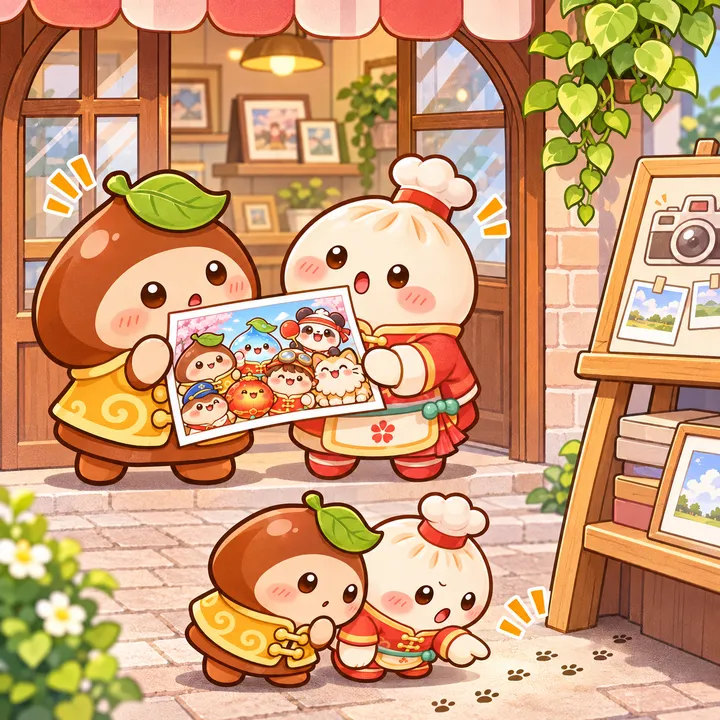
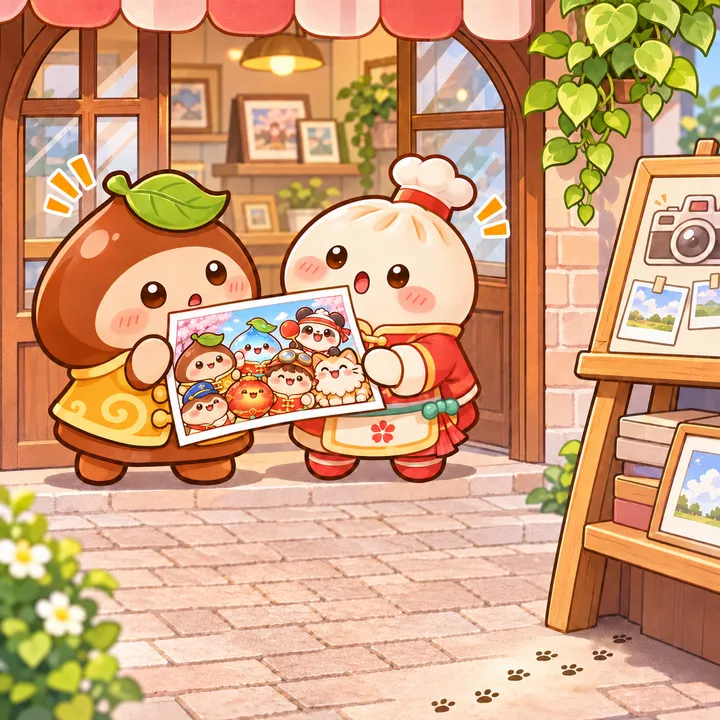
dev/scene/photo: 단계별 문제 8~10개로 확장
추가 미션(찾기, 가려진 물건, 전달, 풍선, 가방 도구)과 제한 시간 조정, 수정 이야기 그림 3장 교체.

Claude-Session: https://claude.ai/code/session_01BVqfE27zkq2vmX5fkttt4p

diff --git a/dev/scene/photo/src/engine.html b/dev/scene/photo/src/engine.html
@@ -15,8 +15,8 @@ body{color:var(--ink);font-family:var(--body);background-color:var(--paper);back
 #back{font-size:24px;line-height:38px}
 #ribbon{min-width:0;background:linear-gradient(#e2574a,#c93c30);color:#fff;border-radius:13px;padding:5px 12px 6px;box-shadow:0 3px 0 var(--redd),inset 0 1px 0 rgba(255,255,255,.28);display:grid;grid-template-columns:1fr auto;gap:0 8px;align-items:center}
 #goal{font:400 18px/1.15 var(--zh);min-width:0;overflow:hidden;white-space:nowrap;text-overflow:ellipsis}
-#pips{display:flex;gap:4px;grid-row:1/3;grid-column:2}
-#pips i{width:11px;height:14px;border-radius:50%/44%;background:rgba(255,255,255,.26);box-shadow:inset 0 0 0 1px rgba(255,255,255,.35);transition:background .25s,transform .25s}
+#pips{display:flex;gap:2px;grid-row:1/3;grid-column:2}
+#pips i{width:8px;height:12px;border-radius:50%/44%;background:rgba(255,255,255,.26);box-shadow:inset 0 0 0 1px rgba(255,255,255,.35);transition:background .25s,transform .25s}
 #pips i.on{background:#ffd76a;box-shadow:0 0 6px #ffd76a;transform:scale(1.12)}
 #timer{font:400 13px/1.2 var(--zh);font-variant-numeric:tabular-nums;opacity:.95}
 #timer.low{color:#ffe29a}
@@ -191,15 +191,16 @@ const cond=(c,v)=>!c||c.split('|').some(a=>a.split('&').every(t=>t[0]==='!'?!v[t
 let S=null;let L=null;
 const obj=id=>L.objs.find(o=>o.id===id);
 function view(o,v,tmp){let r={img:o.img,x:o.x,y:o.y,w:o.w,h:o.h,rot:o.rot||0,hide:false};if(o.show&&!cond(o.show,v))r.hide=true;for(const a of o.alt||[])if(cond(a.if,v)){for(const k of ['img','x','y','w','h','rot'])if(a[k]!==undefined)r[k]=a[k];if(a.hide)r.hide=true;}const t=tmp&&tmp[o.id];if(t){Object.assign(r,t);if(t.hide===undefined&&t.show)r.hide=false;}return r;}
-const probsDone=v=>L.probs.filter(p=>v[p.id]).length;
-function blank(st){const v={};for(const p of st.probs)v[p.id]=false;return v;}
+const allP=st=>st.probs.concat(st.extra||[]);const probsDone=v=>allP(L).filter(p=>v[p.id]).length;
+function blank(st){const v={};for(const p of allP(st))v[p.id]=false;return v;}
+function vFrom(st,l){const v=blank(st);st.probs.forEach((p,i)=>{v[p.id]=l.mask[i]==='0';});(st.extra||[]).forEach((p,i)=>{v[p.id]=(l.x||'')[i]==='1';});return v;}
 function start(i){$('intro').hidden=true;if(STAGES[i].wall)buildWall();L=STAGES[i];S={i,v:blank(L),found:false,phase:'playing',t:L.time||120,tmp:{},fx:{},rub:{},rot:{},q:[],qw:0,qBusy:false,parts:[],fly:[],bubble:null,drag:null,g:null,flash:0,mood:'worry',idle:0,hint:0,hintR:null,zone:null,comp:false,hints:L.diff.hints,used:{},paused:false,timeAd:false,hintAd:false,adRound:false};if(AD.missStage!==L.id){AD.miss=0;AD.missStage=L.id;AD.next={time:0,detail:0,free:0};}S.t+=AD.next.time;S.hints+=AD.next.free;S.detailReady=AD.next.detail;AD.next={time:0,detail:0,free:0};AD.played++;
  music('play');$('home').hidden=true;$('play').hidden=false;$('result').hidden=true;$('goal').textContent=L.goal;$('comp').hidden=!L.comp;$('comp').textContent='全景';fit();updHud();updItems();refreshPV();S.cardT=1.5;$('cardN').textContent=`第 ${L.id} 关`;$('cardT').textContent=L.title;$('cardK').textContent=L.ko;const cd=$('card');cd.hidden=true;void cd.offsetWidth;cd.hidden=false;const ci=$('cardIn');ci.style.animation='none';void ci.offsetWidth;ci.style.animation='';S.q.push(['wait',1.4]);enqueue(L.open||[]);}
 function goHome(){music('menu');S=null;L=null;$('play').hidden=true;$('result').hidden=true;$('home').hidden=false;renderHome();}
 function enqueue(ops){S.q.push(...ops);}
 const at=p=>{if(Array.isArray(p))return{x:p[0],y:p[1]};if(p==='tray')return{x:.5,y:1.08};if(p==='lili')return{x:L.lili[0],y:L.lili[1]-L.lili[2]*.5};const o=obj(p);const w=view(o,S.v,S.tmp);return{x:w.x,y:w.y};};
 function runOp(d){const k=d[0];
- if(k==='set'){const was=S.v[d[1]];S.v[d[1]]=true;if(!was){if(L.probs.some(p=>p.id===d[1])){tone('good');const q=L.probs.find(p=>p.id===d[1]);celebrate(q.at||d[1]);S.mood=probsDone(S.v)>=2?'joy':'basic';}updHud();refreshPV();}}
+ if(k==='set'){const was=S.v[d[1]];S.v[d[1]]=true;if(!was){if(allP(L).some(p=>p.id===d[1])){tone('good');const q=allP(L).find(p=>p.id===d[1]);celebrate(q.at||d[1]);S.mood=probsDone(S.v)>=2?'joy':'basic';}updHud();refreshPV();}}
  else if(k==='clr'){S.v[d[1]]=false;updHud();refreshPV();}
  else if(k==='found'){S.found=true;tone('good');refreshPV();}
  else if(k==='say'){const p=at(d[2]||'lili');S.bubble={t:d[1],x:p.x*SS,y:(p.y-.13)*SS,life:d[3]||1.9};}
@@ -240,12 +241,12 @@ function scene(c,ox,oy,s,st,v,tmp,fxs,rots,mood,found,photo){const now=performan
  for(const o of list){if(!drawnLili&&(o.z||0)>2)lili();if(o.hot)continue;const w=view(o,v,tmp);if(w.hide||!w.img)continue;const f=!photo&&fxs[o.id]>0?Math.sin(now*34)*.09*Math.min(1,fxs[o.id]*2):0;let dy=0,r=w.rot+f+(rots&&rots[o.id]||0);if(!photo&&o.anim==='bob'&&!w.still)dy=Math.sin(now*3+o.x*9)*.012;if(!photo&&o.anim==='shake'&&!cond(o.calm,v))r+=Math.sin(now*26)*.12;if(w.y>.48&&!w.h&&ART[w.img]){const ih=w.w*ART[w.img].height/ART[w.img].width;c.fillStyle='rgba(90,50,20,.16)';c.beginPath();c.ellipse(ox+w.x*s,oy+(w.y+ih*.47)*s,w.w*s*.42,ih*s*.08,0,0,7);c.fill();}sprite(c,w.img,ox+w.x*s,oy+(w.y+dy)*s,w.w*s,{r,h:w.h?w.h*s:0});}
  if(st.wall)for(let i=0;i<5;i++){const x=ox+(.25+i*.125)*s,y=oy+.27*s,w=.105*s;c.fillStyle='#fff8ec';c.strokeStyle='#8a5a37';c.lineWidth=s/260;c.fillRect(x-w/2,y-w/2,w,w*1.1);c.strokeRect(x-w/2,y-w/2,w,w*1.1);const t=WALL[i];if(t)c.drawImage(t,x-w*.44,y-w*.44,w*.88,w*.88);else{c.fillStyle='#ead7b6';c.fillRect(x-w*.44,y-w*.44,w*.88,w*.88);}}
  if(!drawnLili)lili();
- if(st.dark){const a=st.dark.a*(st.dark.off&&cond(st.dark.off,v)?0:1)*(st.dark.fade?1-probsDoneOf(st,v)/5*.85:1);if(a>.01){c.fillStyle=`rgba(12,14,48,${a})`;c.fillRect(ox,oy,s,s);}}
+ if(st.dark){const a=st.dark.a*(st.dark.off&&cond(st.dark.off,v)?0:1)*(st.dark.fade?1-probsDoneOf(st,v)/allP(st).length*.85:1);if(a>.01){c.fillStyle=`rgba(12,14,48,${a})`;c.fillRect(ox,oy,s,s);}}
  if(st.rain){c.strokeStyle='rgba(190,220,255,.55)';c.lineWidth=s/300;for(let i=0;i<46;i++){const x=(i*37.3%100)/100,y=((i*61.7+(photo?0:now*90))%100)/100;c.beginPath();c.moveTo(ox+x*s,oy+y*s);c.lineTo(ox+(x-.012)*s,oy+(y+.05)*s);c.stroke();}}
  if(photo&&found&&st.hid)sprite(c,st.hid,ox+.92*s,oy+.09*s,.09*s,{r:.12});
  if(photo&&st.fog&&!cond(st.fog,v)){const gr=c.createRadialGradient(ox+s/2,oy+s/2,s*.34,ox+s/2,oy+s/2,s*.72);gr.addColorStop(0,'rgba(240,244,248,0)');gr.addColorStop(1,'rgba(240,244,248,.82)');c.fillStyle=gr;c.fillRect(ox,oy,s,s);}}
-let WALL=[];function buildWall(){WALL=[];const pool=Object.assign({},SAVE.last,SAVE.bestShot||{});const ids=Object.keys(pool).map(Number).filter(i=>i!==20).sort((a,b)=>b-a).slice(0,5);for(const id of ids){const st=STAGES.find(q=>q.id===id),l=pool[id];if(!st)continue;const c=document.createElement('canvas');c.width=c.height=170;const v=blank(st);st.probs.forEach((p,i)=>{v[p.id]=l.mask[i]==='0';});photoInto(c.getContext('2d'),170,st,v,l.found,l.zoom);WALL.push(c);}}
-function probsDoneOf(st,v){return st.probs.filter(p=>v[p.id]).length;}
+let WALL=[];function buildWall(){WALL=[];const pool=Object.assign({},SAVE.last,SAVE.bestShot||{});const ids=Object.keys(pool).map(Number).filter(i=>i!==20).sort((a,b)=>b-a).slice(0,5);for(const id of ids){const st=STAGES.find(q=>q.id===id),l=pool[id];if(!st)continue;const c=document.createElement('canvas');c.width=c.height=170;const v=vFrom(st,l);photoInto(c.getContext('2d'),170,st,v,l.found,l.zoom);WALL.push(c);}}
+function probsDoneOf(st,v){return allP(st).filter(p=>v[p.id]).length;}
 function bubble(b){const zh=b.t[0],ko=b.t[1],a=Math.min(1,b.life*3);g.save();g.globalAlpha=a;g.textAlign='center';const F='18px "ZCOOL KuaiLe","PingFang SC",sans-serif';g.font=F;const w1=g.measureText(zh).width;g.font='11px sans-serif';const w=Math.min(VW-8,Math.max(w1,g.measureText(ko).width)+26);const x=Math.max(w/2+4,Math.min(VW-w/2-4,b.x)),y=Math.max(30,Math.min(SS-30,b.y));
  g.fillStyle='#fffdf7';g.strokeStyle='#5b3520';g.lineWidth=2.5;const tx=Math.max(x-w/2+22,Math.min(x+w/2-22,b.x));g.beginPath();g.roundRect(x-w/2,y-26,w,50,16);g.fill();g.stroke();g.beginPath();g.moveTo(tx-9,y+23);g.lineTo(tx,y+35);g.lineTo(tx+9,y+23);g.closePath();g.fill();g.beginPath();g.moveTo(tx-9,y+24);g.lineTo(tx,y+35);g.lineTo(tx+9,y+24);g.stroke();g.textBaseline='middle';g.fillStyle='#5b3520';g.font=F;g.fillText(zh,x,y-7,w-10);g.font='11px sans-serif';g.fillStyle='#8a6448';g.fillText(ko,x,y+13,w-10);g.restore();}
 function draw(){g.setTransform(DPR,0,0,DPR,0,0);g.clearRect(0,0,VW,SS+TRAY);g.save();g.beginPath();g.roundRect(0,0,SS,SS,14);g.clip();
@@ -285,13 +286,13 @@ for(const ev of ['pointerup','pointercancel'])cv.addEventListener(ev,e=>{if(!S||
  const d=S.drag;if(!d)return;S.drag=null;const o=objAt(d.x/SS,d.y/SS,d.id);if(!o)return;const r=find('use',o.id,d.id);if(r){fire(r);return;}if(performance.now()-(S.rubbed||0)<400)return;if(!find('rub',o.id,d.id)){const t=L.tools.find(q=>q.id===d.id);S.fx[o.id]=.6;tone('nope');if(t.miss)S.bubble={t:t.miss,x:view(o,S.v,S.tmp).x*SS,y:(view(o,S.v,S.tmp).y-.13)*SS,life:1.5};}});
 /* ---------- hint: the next rule that changes something ---------- */
 function nextRule(){const shown=r=>{const o=obj(r.t);return !o||!o.show||cond(o.show,S.v);};return L.rules.filter(r=>cond(r.if,S.v)&&shown(r)&&(!r.tool||cond(L.tools.find(t=>t.id===r.tool).have,S.v))&&r.do.some(d=>d[0]==='set'&&!S.v[d[1]]));}
-function useHint(){if(S.detailReady){S.detailReady=0;detailHint();return;}if(S.hints<=0){if(S.hintAd){tone('nope');return;}ask('看广告，获得详细提示','광고를 보면 다음에 할 일을 자세히 알려 줍니다',async()=>{await requestRewarded('hint',()=>{S.hintAd=true;detailHint();});});return;}const rs=nextRule();const unsolved=rs.filter(r=>r.do.some(d=>d[0]==='set'&&L.probs.some(p=>p.id===d[1])));const r=unsolved[0]||rs[0];if(!r)return;S.hints--;updHud();const o=obj(r.t),w=view(o,S.v,S.tmp);S.fx[o.id]=1.4;if(L.diff.ring){S.hintR={x:w.x,y:w.y,r:o.r||Math.max(.07,(w.w||.1)*.6)};S.hint=2.8;S.hintTool=L.diff.toolRing?(r.tool||null):null;}}
+function useHint(){if(S.detailReady){S.detailReady=0;detailHint();return;}if(S.hints<=0){if(S.hintAd){tone('nope');return;}ask('看广告，获得详细提示','광고를 보면 다음에 할 일을 자세히 알려 줍니다',async()=>{await requestRewarded('hint',()=>{S.hintAd=true;detailHint();});});return;}const rs=nextRule();const unsolved=rs.filter(r=>r.do.some(d=>d[0]==='set'&&allP(L).some(p=>p.id===d[1])));const r=unsolved[0]||rs[0];if(!r)return;S.hints--;updHud();const o=obj(r.t),w=view(o,S.v,S.tmp);S.fx[o.id]=1.4;if(L.diff.ring){S.hintR={x:w.x,y:w.y,r:o.r||Math.max(.07,(w.w||.1)*.6)};S.hint=2.8;S.hintTool=L.diff.toolRing?(r.tool||null):null;}}
 function idleNudge(){const rs=nextRule();if(!rs.length)return;const r=rs[Math.floor(Math.random()*rs.length)];S.fx[r.t]=.8;}
 /* ---------- photo ---------- */
 const pvC=document.createElement('canvas');pvC.width=pvC.height=480;
-function decorate(c,sz,st,v){const n=probsDoneOf(st,v);if(n>=3){const y=sz*.012,w=sz/9;for(let i=0;i<9;i++){c.fillStyle=['#e8524a','#f2b52c','#7fc9a2','#7cc0ee'][i%4];c.beginPath();c.moveTo(i*w+w*.08,y);c.lineTo((i+1)*w-w*.08,y);c.lineTo((i+.5)*w,y+sz*.075);c.closePath();c.fill();}c.strokeStyle='#fff8ec';c.lineWidth=sz/170;c.beginPath();c.moveTo(0,y);c.lineTo(sz,y);c.stroke();}
- if(n===5){const P=['#ffd94a','#ff8fa3','#9fd3ff','#8fd19e','#ffb13b'];for(let i=0;i<70;i++){const x=(i*73.7%100)/100*sz,y=(i*41.3%62)/100*sz+sz*.09;c.fillStyle=P[i%5];c.save();c.translate(x,y);c.rotate(i);c.fillRect(-sz/110,-sz/190,sz/55,sz/95);c.restore();}if(ART.tt_cheer){const w=sz*.2,h=w*ART.tt_cheer.height/ART.tt_cheer.width;c.drawImage(ART.tt_cheer,sz*.04,sz*.97-h,w,h);}c.strokeStyle='#f2b52c';c.lineWidth=sz/42;c.strokeRect(sz/84,sz/84,sz-sz/42,sz-sz/42);}}
-function commitMood(v,st){const n=probsDoneOf(st,v);return n>=3?'joy':n>=1?'basic':'shock';}
+function decorate(c,sz,st,v){const n=probsDoneOf(st,v),tot=allP(st).length;if(n>=Math.ceil(tot*.6)){const y=sz*.012,w=sz/9;for(let i=0;i<9;i++){c.fillStyle=['#e8524a','#f2b52c','#7fc9a2','#7cc0ee'][i%4];c.beginPath();c.moveTo(i*w+w*.08,y);c.lineTo((i+1)*w-w*.08,y);c.lineTo((i+.5)*w,y+sz*.075);c.closePath();c.fill();}c.strokeStyle='#fff8ec';c.lineWidth=sz/170;c.beginPath();c.moveTo(0,y);c.lineTo(sz,y);c.stroke();}
+ if(n===tot){const P=['#ffd94a','#ff8fa3','#9fd3ff','#8fd19e','#ffb13b'];for(let i=0;i<70;i++){const x=(i*73.7%100)/100*sz,y=(i*41.3%62)/100*sz+sz*.09;c.fillStyle=P[i%5];c.save();c.translate(x,y);c.rotate(i);c.fillRect(-sz/110,-sz/190,sz/55,sz/95);c.restore();}if(ART.tt_cheer){const w=sz*.2,h=w*ART.tt_cheer.height/ART.tt_cheer.width;c.drawImage(ART.tt_cheer,sz*.04,sz*.97-h,w,h);}c.strokeStyle='#f2b52c';c.lineWidth=sz/42;c.strokeRect(sz/84,sz/84,sz-sz/42,sz-sz/42);}}
+function commitMood(v,st){const n=probsDoneOf(st,v);return n>=allP(st).length*.6?'joy':n>=1?'basic':'shock';}
 function photoInto(c,sz,st,v,found,zoom,keepRot){c.save();c.clearRect(0,0,sz,sz);if(zoom){const z=1.55,cx=(st.comp&&st.comp[0])||.5,cy=(st.comp&&st.comp[1])||.55;c.translate(sz/2-cx*sz*z,sz/2-cy*sz*z);c.scale(z,z);}scene(c,0,0,sz,st,v,{},{},keepRot||{},commitMood(v,st),found,true);c.restore();decorate(c,sz,st,v);}
 function refreshPV(){if(!S)return;photoInto(pvC.getContext('2d'),480,L,S.v,S.found,S.comp,S.rot);if(!$('pv').hidden)showPV();}
 function showPV(){const c=$('pvBig').getContext('2d');c.clearRect(0,0,480,480);c.drawImage(pvC,0,0);}
@@ -300,17 +301,17 @@ function titleOf(st,mask){if(st.titles[mask])return st.titles[mask];const u=st.p
 function maskOf(st,v){return st.probs.map(p=>v[p.id]?'0':'1').join('');}
 function capture(reason){if(!S||S.phase!=='playing')return;S.phase='capturing';S.g=null;S.drag=null;S.hold=null;S.q=[];S.tmp={};$('pv').hidden=true;const v=JSON.parse(JSON.stringify(S.v)),mask=maskOf(L,v),found=S.found,zoom=S.comp,rots=Object.assign({},S.rot);
  S.bubble={t:reason==='timeout'?['时间到！就拍现在的样子！','시간 됐다! 지금 모습 그대로 찰칵!']:['就是现在！咔嚓！','지금 이 순간이 좋아! 찰칵!'],x:VW/2,y:SS/2,life:1.2};tone('shutter');S.flash=.55;
- setTimeout(()=>{if(!S)return;photoInto($('pc').getContext('2d'),640,L,v,found,zoom,rots);const t=titleOf(L,mask),hadFound=!!SAVE.found[L.id],A=SAVE.alb[L.id]=SAVE.alb[L.id]||{};const first=!A[mask];A[mask]=A[mask]||{n:0};A[mask].n++;SAVE.last[L.id]={mask,found,zoom};if(found)SAVE.found[L.id]=1;persist();
-  const dn0=5-[...mask].filter(c=>c==='1').length,prevBest=(SAVE.best=SAVE.best||{})[L.id]||0;if(dn0>prevBest)SAVE.best[L.id]=dn0;const gotI=earnItems(L,dn0===5&&prevBest<5,found&&!hadFound);const bk=SAVE.bestShot=SAVE.bestShot||{};if(!bk[L.id]||dn0>=bk[L.id].n)bk[L.id]={mask,found,zoom,n:dn0};persist();const tier=dn0===5?3:dn0>=3?2:dn0>=1?1:0;$('polaroid').className='t'+tier;$('pAfter').hidden=dn0!==5;if(dn0===5){const firstP=!SAVE.seen||!SAVE.seen[L.id];$('pAfter').innerHTML=`<b>小镇日记 · 解锁</b>${L.after[0]}<small>${L.after[1]}</small><button id="reStory" type="button">看小故事</button>`;const stg=L;$('reStory').onclick=()=>openStory(stg);tone('good');setTimeout(()=>tone('good'),260);confetti();if(firstP){SAVE.seen=SAVE.seen||{};SAVE.seen[L.id]=1;persist();setTimeout(()=>{if(L===stg&&!$('result').hidden)openStory(stg);},2100);}}$('pTitle').textContent=t[0];$('pKo').textContent=t[1];$('pTag').textContent=`${first?'새 사진 기록!':'같은 사진 '+A[mask].n+'번째'} · 사진첩 ${Object.keys(A).length}/32${found?' · 숨은 스티커 획득':''}${dn0<5?` · ${5-dn0}개 더 해결하면 황금 사진!`:''}${gotI.length?' · 아이템 '+gotI.join(', '):''}`;$('next').textContent=S.i+1<STAGES.length?'下一关':'纪念馆';const dn=5-[...mask].filter(c=>c==='1').length,sd=$('stamp');sd.innerHTML=dn===5?'<b>完美</b>全家福':dn===0?'<b>翻车</b>也好看':`<b>${dn}/5</b>小惊喜`;sd.style.animation='none';void sd.offsetWidth;sd.style.animation='';const po=$('polaroid');po.style.animation='none';void po.offsetWidth;po.style.animation='';S.phase='result';$('result').hidden=false;AD.sinceI++;AD.launchFirst=false;const dn2=5-[...mask].filter(c=>c==='1').length;AD.miss=dn2<5?AD.miss+1:0;$('offer').hidden=true;$('plus').hidden=true;if(AD.miss>=3){AD.next.free=1;$('pTag').textContent+=' · 다음 촬영에 무료 힌트 1개 추가';if(!AD.offered.has(L.id)&&adAdapter.allowed()&&adAdapter.ready()){AD.offered.add(L.id);$('offerT').textContent='想发现更多小惊喜吗？看广告，下次拍照增加30秒和1条详细提示';$('offerAd').textContent='看广告';$('offer').hidden=false;}}window.__last={stage:L.id,mask,title:t,reason,n:(window.__last?.n||0)+1};},750);}
+ setTimeout(()=>{if(!S)return;photoInto($('pc').getContext('2d'),640,L,v,found,zoom,rots);const t=titleOf(L,mask),hadFound=!!SAVE.found[L.id],A=SAVE.alb[L.id]=SAVE.alb[L.id]||{};const first=!A[mask];A[mask]=A[mask]||{n:0};A[mask].n++;const xs=(L.extra||[]).map(p=>v[p.id]?'1':'0').join(''),tot=allP(L).length,doneN=allP(L).filter(p=>v[p.id]).length;SAVE.last[L.id]={mask,found,zoom,x:xs};if(found)SAVE.found[L.id]=1;persist();
+  const dn0=doneN===tot?5:Math.min(4,Math.floor(doneN/tot*5)),prevBest=(SAVE.best=SAVE.best||{})[L.id]||0;if(dn0>prevBest)SAVE.best[L.id]=dn0;const gotI=earnItems(L,dn0===5&&prevBest<5,found&&!hadFound);const bk=SAVE.bestShot=SAVE.bestShot||{};if(!bk[L.id]||dn0>=bk[L.id].n)bk[L.id]={mask,found,zoom,n:dn0,x:xs};persist();const tier=dn0===5?3:dn0>=3?2:dn0>=1?1:0;$('polaroid').className='t'+tier;$('pAfter').hidden=dn0!==5;if(dn0===5){const firstP=!SAVE.seen||!SAVE.seen[L.id];$('pAfter').innerHTML=`<b>小镇日记 · 解锁</b>${L.after[0]}<small>${L.after[1]}</small><button id="reStory" type="button">看小故事</button>`;const stg=L;$('reStory').onclick=()=>openStory(stg);tone('good');setTimeout(()=>tone('good'),260);confetti();if(firstP){SAVE.seen=SAVE.seen||{};SAVE.seen[L.id]=1;persist();setTimeout(()=>{if(L===stg&&!$('result').hidden)openStory(stg);},2100);}}$('pTitle').textContent=t[0];$('pKo').textContent=t[1];$('pTag').textContent=`${first?'새 사진 기록!':'같은 사진 '+A[mask].n+'번째'} · 사진첩 ${Object.keys(A).length}/32${found?' · 숨은 스티커 획득':''}${dn0<5?` · ${tot-doneN}개 더 해결하면 황금 사진!`:''}${gotI.length?' · 아이템 '+gotI.join(', '):''}`;$('next').textContent=S.i+1<STAGES.length?'下一关':'纪念馆';const sd=$('stamp');sd.innerHTML=doneN===tot?'<b>完美</b>全家福':doneN===0?'<b>翻车</b>也好看':`<b>${doneN}/${tot}</b>小惊喜`;sd.style.animation='none';void sd.offsetWidth;sd.style.animation='';const po=$('polaroid');po.style.animation='none';void po.offsetWidth;po.style.animation='';S.phase='result';$('result').hidden=false;AD.sinceI++;AD.launchFirst=false;AD.miss=doneN<tot?AD.miss+1:0;$('offer').hidden=true;$('plus').hidden=true;if(AD.miss>=3){AD.next.free=1;$('pTag').textContent+=' · 다음 촬영에 무료 힌트 1개 추가';if(!AD.offered.has(L.id)&&adAdapter.allowed()&&adAdapter.ready()){AD.offered.add(L.id);$('offerT').textContent='想发现更多小惊喜吗？看广告，下次拍照增加30秒和1条详细提示';$('offerAd').textContent='看广告';$('offer').hidden=false;}}window.__last={stage:L.id,mask,title:t,reason,n:(window.__last?.n||0)+1};},750);}
 function renderAlbum(st){const A=SAVE.alb[st.id]||{};$('albumHead').textContent=`相册 ${Object.keys(A).length}/32`;$('albumSub').textContent=st.title;const X=$('albumList');X.innerHTML='';for(const m of Object.keys(A).sort()){const d=document.createElement('div');d.className='al';d.textContent=(st.titles[m]?'★ ':'')+titleOf(st,m)[0];const s=document.createElement('span');s.textContent='×'+A[m].n;d.append(s);X.append(d);}}
 let STX=null;
 function openStory(st){STX={st,i:0};const c=$('stC').getContext('2d');c.clearRect(0,0,640,640);if(st.endArt&&ART[st.endArt])c.drawImage(ART[st.endArt],0,0,640,640);else{const v=blank(st);st.probs.forEach(p=>{v[p.id]=true;});photoInto(c,640,st,v,false,false);}$('story').hidden=false;storyLine();}
 function storyLine(){const q=STX.st.story[STX.i];$('stWho').textContent=q[0];$('stZh').textContent=q[1];$('stKo').textContent=q[2];$('stStep').textContent=`${STX.i+1}/${STX.st.story.length}`;$('stNext').textContent=STX.i+1<STX.st.story.length?'继续':'完成';const t=$('stTalk');t.style.animation='none';void t.offsetWidth;t.style.animation='';}
 /* ---------- intro ---------- */
 const INTRO=[{p:['lili_joy','tuantuan','cat_dry'],t:'欢迎来到团团小镇',z:'新来的栗栗总是闹出小乱子，团团会帮大家拍下每一刻。',k:'새로 온 리리는 늘 작은 소동을 일으키고, 퇀퇀은 그 순간을 사진으로 남겨요.'},
- {p:['hanky','dundun','zhuozhuo'],t:'找到麻烦，动手解决',z:'点一点、拖一拖，捡到的东西会放进下面的背包，再拖到需要的地方。',k:'누르고 끌어서 문제 5개를 해결하세요. 주운 물건은 아래 가방에 들어가고, 필요한 곳으로 끌어다 쓸 수 있어요. 숨은 친구도 찾아 보세요.'},
+ {p:['hanky','dundun','zhuozhuo'],t:'找到麻烦，动手解决',z:'点一点、拖一拖，捡到的东西会放进下面的背包，再拖到需要的地方。',k:'누르고 끌어서 단계마다 문제 8~10개를 해결하세요. 주운 물건은 아래 가방에 들어가고, 필요한 곳으로 끌어다 쓸 수 있어요. 숨은 친구도 찾아 보세요.'},
  {p:['flashlight','clock','fu'],t:'用道具帮帮忙',z:'手电筒照亮大概位置，加时钟多20秒，稀有的福气贴能解决一个麻烦。',k:'손전등은 대략적인 위치만 비춰 주고, 시계는 20초를 늘려 줘요. 복 스티커는 아주 귀하고 문제 하나를 해결해 줘요. 종류별로 한 판에 한 번씩만 쓸 수 있어요.'},
- {p:['cam_clear','paw','lili_basic'],t:'什么时候拍都可以',z:'解决越多照片越好看，五个全解决就有金色照片和小故事！',k:'언제든 찍을 수 있어요. 많이 해결할수록 사진이 좋아지고, 5개를 모두 풀면 황금 사진과 이야기가 열려요. 작은 발자국의 비밀도 풀어 보세요.'}];
+ {p:['cam_clear','paw','lili_basic'],t:'什么时候拍都可以',z:'解决越多照片越好看，全部解决就有金色照片和小故事！',k:'언제든 찍을 수 있어요. 많이 해결할수록 사진이 좋아지고, 모두 풀면 황금 사진과 이야기가 열려요. 작은 발자국의 비밀도 풀어 보세요.'}];
 let INI=0;function showIntro(i){INI=i;const q=INTRO[i];$('inPic').innerHTML=q.p.map(n=>`<img src="art/${n}.webp" alt="">`).join('');$('inT').textContent=q.t;$('inZh').textContent=q.z;$('inKo').textContent=q.k;$('inDots').innerHTML=INTRO.map((_,k)=>`<i class="${k===i?'on':''}"></i>`).join('');$('inNext').textContent=i+1<INTRO.length?'继续':'开始';$('intro').hidden=false;}
 function closeIntro(){$('intro').hidden=true;SAVE.intro=1;persist();}
 $('inNext').onclick=()=>{if(INI+1<INTRO.length)showIntro(INI+1);else closeIntro();};$('inSkip').onclick=closeIntro;$('howto').onclick=()=>showIntro(0);
@@ -318,11 +319,11 @@ $('inNext').onclick=()=>{if(INI+1<INTRO.length)showIntro(INI+1);else closeIntro(
 const ITEM={light:{btn:'itLight',zh:'手电筒'},clock:{btn:'itClock',zh:'加时钟'},fu:{btn:'itFu',zh:'福气贴'}};
 function bag(){SAVE.items=SAVE.items||{light:2,clock:1,fu:0,v:2};if(SAVE.items.v!==2){SAVE.items.fu=0;SAVE.items.v=2;}return SAVE.items;}
 function updItems(){const b=bag();for(const k in ITEM){const e=$(ITEM[k].btn);e.querySelector('em').textContent=b[k];e.classList.toggle('off',b[k]<=0||!!(S&&S.used&&S.used[k]));}}
-function useItem(k){if(!S||S.phase!=='playing'||S.paused)return;const b=bag();if(b[k]<=0||S.used[k]){tone('nope');return;}if(k==='light'&&!nextRule().length){tone('nope');return;}if(k==='fu'&&probsDone(S.v)===5){tone('nope');return;}b[k]--;S.used[k]=1;persist();updItems();tone('good');if(k==='light'){const rs=nextRule(),r=rs[Math.floor(Math.random()*rs.length)],o=obj(r.t),w=view(o,S.v,S.tmp);S.area={x:w.x<.5?.27:.73,y:w.y<.5?.27:.73,t:2.2};S.bubble={t:['好像在这附近……','이 근처인 것 같아…'],x:VW/2,y:SS*.5,life:1.4};}else if(k==='clock'){S.t+=20;S.bubble={t:['时间多了20秒！','시간이 20초 늘었어!'],x:VW/2,y:SS*.2,life:1.3};}else{const p=L.probs.find(q=>!S.v[q.id]);runOp(['set',p.id]);S.bubble={t:['福气到，麻烦解决！','복이 왔다, 문제 해결!'],x:VW/2,y:SS*.2,life:1.4};}}
+function useItem(k){if(!S||S.phase!=='playing'||S.paused)return;const b=bag();if(b[k]<=0||S.used[k]){tone('nope');return;}if(k==='light'&&!nextRule().length){tone('nope');return;}if(k==='fu'&&probsDone(S.v)===allP(L).length){tone('nope');return;}b[k]--;S.used[k]=1;persist();updItems();tone('good');if(k==='light'){const rs=nextRule(),r=rs[Math.floor(Math.random()*rs.length)],o=obj(r.t),w=view(o,S.v,S.tmp);S.area={x:w.x<.5?.27:.73,y:w.y<.5?.27:.73,t:2.2};S.bubble={t:['好像在这附近……','이 근처인 것 같아…'],x:VW/2,y:SS*.5,life:1.4};}else if(k==='clock'){S.t+=20;S.bubble={t:['时间多了20秒！','시간이 20초 늘었어!'],x:VW/2,y:SS*.2,life:1.3};}else{const p=allP(L).find(q=>!S.v[q.id]);runOp(['set',p.id]);S.bubble={t:['福气到，麻烦解决！','복이 왔다, 문제 해결!'],x:VW/2,y:SS*.2,life:1.4};}}
 for(const k in ITEM)$(ITEM[k].btn).onclick=()=>useItem(k);
 function earnItems(st,first5,firstFound){const b=bag(),got=[];if(first5){b.light++;got.push('손전등 +1');}if(firstFound){b.clock++;got.push('시계 +1');}const gold=Object.values(SAVE.best||{}).filter(x=>x===5).length;if(first5&&(gold===10||gold===20)){b.fu++;got.push('복 스티커 +1');}persist();return got;}
 function confetti(){const P=['#ffd94a','#ff8fa3','#9fd3ff','#8fd19e','#ffb13b'];for(let i=0;i<34;i++){const e=document.createElement('i');e.className='conf';e.style.left=Math.random()*100+'vw';e.style.background=P[i%5];e.style.animationDelay=Math.random()*.7+'s';document.body.append(e);setTimeout(()=>e.remove(),2800);}}
-function renderHall(){const W=$('wall');W.innerHTML='';for(const st of STAGES){const d=document.createElement('div');const c=document.createElement('canvas');c.width=c.height=170;const l=(SAVE.bestShot||{})[st.id]||SAVE.last[st.id];const X=c.getContext('2d');if(l){const v=blank(st);st.probs.forEach((p,i)=>{v[p.id]=l.mask[i]==='0';});photoInto(X,170,st,v,l.found,l.zoom);}else{X.fillStyle='#ead7b6';X.fillRect(0,0,170,170);}d.append(c);d.append(String(st.id));W.append(d);}const D=$('diary');D.innerHTML='';let dn=0;for(const st of STAGES){const e=document.createElement('div');if(((SAVE.best||{})[st.id]||0)===5){dn++;e.innerHTML=`${st.id}. ${st.after[0]}<small>${st.after[1]} · 눌러서 이야기 보기</small>`;e.onclick=()=>openStory(st);}else{e.className='off';e.textContent=`${st.id}. ？？？ (5/5 사진을 찍으면 열립니다)`;}D.append(e);}$('diaryN').textContent=`${dn}/${STAGES.length} 열림`;}
+function renderHall(){const W=$('wall');W.innerHTML='';for(const st of STAGES){const d=document.createElement('div');const c=document.createElement('canvas');c.width=c.height=170;const l=(SAVE.bestShot||{})[st.id]||SAVE.last[st.id];const X=c.getContext('2d');if(l){photoInto(X,170,st,vFrom(st,l),l.found,l.zoom);}else{X.fillStyle='#ead7b6';X.fillRect(0,0,170,170);}d.append(c);d.append(String(st.id));W.append(d);}const D=$('diary');D.innerHTML='';let dn=0;for(const st of STAGES){const e=document.createElement('div');if(((SAVE.best||{})[st.id]||0)===5){dn++;e.innerHTML=`${st.id}. ${st.after[0]}<small>${st.after[1]} · 눌러서 이야기 보기</small>`;e.onclick=()=>openStory(st);}else{e.className='off';e.textContent=`${st.id}. ？？？ (모두 해결하면 열립니다)`;}D.append(e);}$('diaryN').textContent=`${dn}/${STAGES.length} 열림`;}
 function renderHome(){const X=$('list');X.innerHTML='';let total=0,last=-1;STAGES.forEach((st,i)=>{const n=Object.keys(SAVE.alb[st.id]||{}).length;total+=n;if(n)last=i;});$('homeSub').textContent=`황금 사진 ${Object.values(SAVE.best||{}).filter(x=>x===5).length}/${STAGES.length} · 사진 ${total}/${STAGES.length*32} · 스티커 ${Object.keys(SAVE.found).length}/${STAGES.length}`;
  STAGES.forEach((st,i)=>{const n=Object.keys(SAVE.alb[st.id]||{}).length,open=TEST_OPEN_ALL||i<=last+1;const best=(SAVE.best||{})[st.id]||0,sc=best===5?3:best>=3?2:best>=1?1:0;const b=document.createElement('button');b.type='button';b.className='lv'+(open?'':' lock')+(best===5?' gold':'');b.innerHTML=`<i style="background-image:url(art/${st.bg}.webp)"></i><em>${st.id}</em><b>${st.title}</b><span>${st.ko}</span><span><mark>${'★'.repeat(sc)}</mark><b class="dim">${'★'.repeat(3-sc)}</b> ${n}/32${SAVE.found[st.id]?' · 스티커':''}</span><u><s style="width:${n/32*100}%"></s></u>`;b.onclick=()=>{if(open){au();start(i);}};X.append(b);});}
 $('shoot').onclick=()=>{au();capture('manual');};
@@ -350,7 +351,7 @@ $('askNo').onclick=()=>{$('adAsk').hidden=true;askCb=null;if(S)S.paused=false;};
 $('askYes').onclick=async()=>{$('adAsk').hidden=true;const f=askCb;askCb=null;if(f)await f();if(S&&AD.state==='IDLE')S.paused=false;};
 function canInterstitial(){const n=Date.now();return INTERSTITIAL_ON&&adAdapter.allowed()&&!AD.launchFirst&&L&&L.id>=5&&AD.sinceI>=3&&n-AD.lastI>=180000&&n-AD.lastR>=60000&&!(S&&S.adRound);}
 async function transition(go){if(canInterstitial()&&AD.state==='IDLE'){AD.state='SHOWING';try{await adAdapter.showInterstitial();AD.lastI=Date.now();AD.sinceI=0;}catch(e){}AD.state='IDLE';$('adMock').hidden=true;}go();}
-function detailHint(){const rs=nextRule();const un=rs.filter(r=>r.do.some(d=>d[0]==='set'&&L.probs.some(p=>p.id===d[1])));const r=un[0]||rs[0];if(!r)return;const o=obj(r.t),w=view(o,S.v,S.tmp);S.fx[o.id]=1.4;S.hintR={x:w.x,y:w.y,r:o.r||Math.max(.07,(w.w||.1)*.6)};S.hint=4;S.hintTool=r.tool||null;}
+function detailHint(){const rs=nextRule();const un=rs.filter(r=>r.do.some(d=>d[0]==='set'&&allP(L).some(p=>p.id===d[1])));const r=un[0]||rs[0];if(!r)return;const o=obj(r.t),w=view(o,S.v,S.tmp);S.fx[o.id]=1.4;S.hintR={x:w.x,y:w.y,r:o.r||Math.max(.07,(w.w||.1)*.6)};S.hint=4;S.hintTool=r.tool||null;}
 $('plus').onclick=()=>{if(!S||S.timeAd||S.phase!=='playing')return;ask('看广告，增加30秒','광고를 보면 이번 판 시간이 30초 늘어납니다',async()=>{const r=await requestRewarded('time',()=>{S.t+=30;S.timeAd=true;$('plus').hidden=true;});});};
 $('offerNo').onclick=()=>{$('offer').hidden=true;};
 $('offerAd').onclick=async()=>{const r=await requestRewarded('next',()=>{AD.next.time=30;AD.next.detail=1;});$('offer').hidden=true;if(r==='completed')$('pTag').textContent='다음 촬영에 30초와 자세한 힌트가 추가됩니다';};
@@ -363,7 +364,7 @@ let AC=null;function au(){try{if(!AC)AC=new (window.AudioContext||window.webkitA
 function beep(f,t,d,v0,ty){const v=Math.min(.5,v0*2.6),o=AC.createOscillator(),a=AC.createGain();o.type=ty||'sine';o.frequency.value=f;a.gain.setValueAtTime(.0001,AC.currentTime+t);a.gain.exponentialRampToValueAtTime(v,AC.currentTime+t+.01);a.gain.exponentialRampToValueAtTime(.0001,AC.currentTime+t+d);o.connect(a);a.connect(AC.destination);o.start(AC.currentTime+t);o.stop(AC.currentTime+t+d+.03);}
 function tone(n,f){if(!AC)return;try{({tap:()=>beep(660,0,.07,.08),good:()=>[784,988,1319].forEach((q,i)=>beep(q,i*.07,.3,.09)),nope:()=>{beep(300,0,.12,.07,'triangle');beep(230,.08,.13,.06,'triangle');},shake:()=>{for(let i=0;i<6;i++)beep(170+i*25,i*.06,.05,.05,'triangle');},note:()=>beep(f||523,0,.45,.13),shutter:()=>{beep(1400,0,.03,.08,'square');beep(900,.05,.05,.07,'square');}})[n]();}catch(e){}}
 /* ---------- loop ---------- */
-function updHud(){if(S&&S.used)updItems();const n=probsDone(S.v);$('prog').textContent=`已整理 ${n}/5`;$('pips').innerHTML=[0,1,2,3,4].map(i=>`<i class="${i<n?'on':''}"></i>`).join('');$('hintN').textContent=S.hints;$('hintBtn').classList.toggle('none',S.hints<=0);}
+function updHud(){if(S&&S.used)updItems();const n=probsDone(S.v);const tt=allP(L).length;$('prog').textContent=`已整理 ${n}/${tt}`;$('pips').innerHTML=Array.from({length:tt},(_,i)=>`<i class="${i<n?'on':''}"></i>`).join('');$('hintN').textContent=S.hints;$('hintBtn').classList.toggle('none',S.hints<=0);}
 function fmt(t){const s=Math.ceil(t),m=Math.floor(s/60);return `还有 ${String(m).padStart(2,'0')}:${String(s%60).padStart(2,'0')} 开拍！`;}
 let last=0;function frame(n){const dt=Math.min(.05,(n-(last||n))/1000);last=n;if(S){if(S.cardT>0){S.cardT-=dt;if(S.cardT<=0)$('card').hidden=true;}if(S.phase==='playing'){if(!(S.cardT>0)&&!S.paused)S.t-=dt;S.idle+=dt;$('plus').hidden=!(S.t<=30&&!S.timeAd&&adAdapter.allowed()&&adAdapter.ready());if(S.t<=0){S.t=0;capture('timeout');}const el=$('timer');el.textContent=fmt(S.t);el.classList.toggle('low',S.t<=20);if(L.diff.idle&&S.idle>L.diff.idle){S.idle=0;idleNudge();}pump(dt);
    const G=S.g;if(G&&G.ges&&G.ges.on==='hold'&&G.moved<12){const k=(performance.now()-G.t0)/1000/(G.ges.dur||1.1);if(S.hold)S.hold.k=k;if(k>=1){S.g=null;S.hold=null;fire(G.ges);}}}

diff --git a/dev/scene/photo/src/stages.js b/dev/scene/photo/src/stages.js
@@ -226,7 +226,7 @@ stage({id:20,title:'小镇纪念照',ko:'동네 기념사진',goal:'全镇大合
 
 /* ---------- difficulty: stage 1 is the gentle one, then help shrinks and puzzles deepen ---------- */
 const diff=id=>({hints:id===1?3:id<=5?2:1,idle:id===1?8:id<=5?15:id<=10?25:0,zones:id<=2,ring:id<=12,toolRing:id<=5,slack:id<=5?.03:id<=12?.015:0,rub:id<=5?150:id<=12?185:225});
-const time=id=>id===1?120:id<=5?110:id<=10?100:id<=15?90:80;
+const time=id=>id===1?150:id<=5?140:id<=10?130:id<=15?125:120;
 let uid=0;
 function need(s,t,flag){for(const q of s.rules)if(q.t===t&&!q.do.some(d=>d[0]==='found'))q.if=(q.if||'').split('|').map(a=>a?a+'&'+flag:flag).join('|');}
 /* a friend stays locked until found in the scene */
@@ -281,10 +281,27 @@ const STORY=[
 [[T_,'今天是小镇最热闹的一天。','오늘은 동네에서 가장 신나는 날이야.'],[L_,'小猫，你愿意一起拍照吗？','고양이야, 같이 사진 찍을래?'],[M_,'喵！','야옹! (작은 상자를 밀어 준다)']],
 [[L_,'盒子里全是我们的照片！','상자에 우리 사진이 가득해!'],[T_,'原来它一直在帮我们收藏回忆。','계속 우리 추억을 모아 주고 있었구나.'],[M_,'喵～全镇合影，算我一个！','야옹~ 동네 사진, 나도 끼워 줘!']]];
 ST.forEach((s,i)=>{s.after=AFTER[i];s.story=STORY[i];const a='end_'+String(i+1).padStart(2,'0');if(require('fs').existsSync(require('path').join(__dirname,'../art',a+'.webp')))s.endArt=a;});
+/* side missions: stage 1-5 have 3, 6-12 have 4, 13-20 have 5, so a stage has 8 to 10 problems.
+   f find · u find under a cover · g bring to Lili · h hold to blow up · b pick a tool, use it on a mess */
+const NAME={hargow:['虾饺','새우만두'],siumai:['烧卖','샤오마이'],charsiu:['叉烧包','차슈바오'],xiaolong:['小笼包','샤오롱바오'],eggtart:['蛋挞','에그타르트'],sesame:['芝麻球','깨찰볼'],tea:['热茶','따뜻한 차'],shell:['贝壳','조개껍데기'],hat:['小帽子','작은 모자'],envelope:['小信封','작은 편지'],gift:['小礼物','작은 선물'],candle2:['小蜡烛','작은 초'],panda:['熊猫玩偶','판다 인형'],shoe:['小鞋子','작은 신발'],clock:['小闹钟','작은 시계'],jar:['玻璃瓶','유리병'],hawthorn:['糖葫芦','탕후루'],kite:['小风筝','작은 연'],sdragon:['糖画','설탕 그림'],tissue:['纸巾','휴지'],lantern:['小灯笼','작은 등롱'],plantern:['小花灯','작은 꽃등'],muffs:['耳罩','귀마개'],lunch:['点心盒','간식 상자'],thermo:['温度计','온도계'],flashlight:['小手电','작은 손전등']};
+const PAIR={broom2:['paper','扫把','빗자루','纸团扫干净了','종이뭉치를 쓸었어'],duster:['web','掸子','먼지떨이','蜘蛛网没有了','거미줄이 사라졌어'],hanky:['tissue','手帕','손수건','擦干净了','깨끗하게 닦았어']};
+function spots(s){const a=[[s.lili[0],s.lili[1],.13]];for(const o of s.objs){a.push([o.x,o.y,o.r||Math.max(.06,(o.w||.1)*.6)]);for(const q of o.alt||[])a.push([q.x??o.x,q.y??o.y,.07]);}for(const r of s.rules)if(r.to)a.push([r.to[0],r.to[1],.07]);return a;}
+function free(s,seed){const a=spots(s);let best=null,bs=-9;for(let x=.08;x<.93;x+=.05)for(let y=.14;y<.93;y+=.05){let d=9;for(const q of a)d=Math.min(d,Math.hypot(x-q[0],y-q[1])-q[2]);const j=Math.abs(Math.sin(x*91+y*37+seed*13))*.035;if(d+j>bs){bs=d+j;best=[x,y];}}return best;}
+function side(s,list){const hard=s.id>=13?.052:s.id>=6?.06:.07,n0=s.rules.length;s.extra=[];list.forEach((e,i)=>{const id='x'+(i+1),[k,img,arg]=e,[x,y]=free(s,s.id+i),nm=NAME[img]||['',''];s.extra.push({id});
+  if(k==='f'||k==='u'){s.objs.push({id,img,x,y,w:hard,z:2,show:'!'+id,r:Math.max(.05,hard*.8)});s.rules.push(tap(id,'',['fly',img,[x,y],'tray',.35,.05,.05],set(id),say('找到'+nm[0]+'啦！',nm[1]+' 찾았다!',[x,Math.max(.25,y)],1.2)));if(k==='u')under(s,id,arg,x<.5?'right':'left',.1,'下面有东西！','밑에 뭔가 있어!');}
+  else if(k==='g'){s.objs.push({id,img,x,y,w:hard+.015,z:3,show:'!'+id,r:.065});s.rules.push(drag(id,[s.lili[0],s.lili[1],.11],'!'+id,set(id),say('谢谢！这个'+nm[0]+'正好！','고마워! '+nm[1]+' 딱 좋아!','lili',1.3)));}
+  else if(k==='h'){s.objs.push({id,img:'balloon_d',x,y,w:.08,z:3,r:.07,alt:[{if:id,img:'balloon',w:.09,y:Math.max(.16,y-.06)}]});s.rules.push(hold(id,'!'+id,set(id)));}
+  else if(k==='b'){const [mess,tz,tk,dz,dk]=PAIR[img],t='t'+id,got='got_'+id;s.tools.push({id:t,img,have:got,miss:['这里用不上'+tz,'여긴 '+tk+'가 필요 없어']});s.objs.push({id:'p'+id,img,x,y,w:.08,z:3,show:'!'+got,r:.065});s.rules.push(tap('p'+id,'',['fly',img,[x,y],'tray',.35,.05,.08],set(got),['tone','good'],say('捡到'+tz+'！',tk+' 주웠다!',[.5,.86],1.2)));const [mx,my]=free(s,s.id+i+40);s.objs.push({id,img:mess,x:mx,y:my,w:.09,z:2,show:'!'+id,r:.075});s.rules.push(use(t,id,'!'+id,set(id),say(dz,dk,[mx,Math.max(.25,my)],1.2)));}});
+ for(const r of s.rules.slice(n0))r.x=1;}
+const SIDE=[[['f','eggtart'],['f','sesame'],['g','tea']],[['f','hargow'],['g','lunch'],['f','xiaolong']],[['f','hat'],['g','tea'],['u','panda','pillow']],[['f','candle2'],['g','tea'],['u','hat','cushion']],[['f','kite'],['h'],['g','sdragon']],
+[['f','hat'],['g','tea'],['u','hargow','cushion'],['h']],[['f','hat'],['u','shoe','pillow'],['g','tea'],['b','broom2']],[['f','gift'],['g','tea'],['u','hat','cushion'],['b','hanky']],[['f','tissue'],['g','tea'],['u','shoe','pillow'],['b','broom2']],[['f','xiaolong'],['g','gift'],['u','hat','pillow'],['h']],
+[['f','tissue'],['g','tea'],['u','hat','pillow'],['b','hanky']],[['f','xiaolong'],['g','tea'],['u','hat','cushion'],['b','broom2']],
+[['f','hat'],['g','tea'],['u','shoe','pillow'],['u','candle2','cushion'],['b','duster']],[['f','hat'],['g','sdragon'],['u','tea','cushion'],['h'],['b','broom2']],[['f','hat'],['g','tea'],['u','lantern','pillow'],['u','tissue','cushion'],['b','hanky']],[['f','tissue'],['g','tea'],['u','hat','cushion'],['u','shoe','pillow'],['h']],[['f','gift'],['g','tea'],['u','hat','cushion'],['u','tissue','pillow'],['b','broom2']],[['f','hat'],['g','tea'],['u','shoe','pillow'],['u','candle2','cushion'],['h']],[['f','hat'],['g','tea'],['u','gift','pillow'],['u','tissue','cushion'],['h']],[['f','hat'],['g','tea'],['u','gift','pillow'],['u','shoe','cushion'],['h']]];
 /* bag items, stages 2-5 */
 {const s=at(2);need(s,'shutter','handle');s.rules.push(tap('shutter','!handle',['wig','shutter',.5],['tone','nope'],say('门卡住了，少个把手','문이 걸렸어, 손잡이가 없네','shutter',1.5)));pick(s,'knobT','knob',.16,.74,.06,'捡到一个门把手！','문 손잡이를 주웠어!',['这里用不上把手','여긴 손잡이가 필요 없어']);s.rules.push(use('knobT','shutter','!handle&!shutter',set('handle'),['tone','good'],say('装好了，往上推推看','달았어, 위로 밀어 봐','shutter',1.5)));}
 {const s=at(3);s.rules=s.rules.filter(q=>!(q.t==='rug'&&q.on==='swipe'));pick(s,'dusterT','duster',.95,.50,.07,'找到掸子啦！','먼지떨이를 찾았어!',['这里不用掸','여긴 털 필요 없어']);s.rules.push(rub('dusterT','rug','!rug',set('rug'),say('地毯平整啦','양탄자가 평평해졌어','rug')));}
 pick(at(4),'duster','duster',.60,.62,.08,'旧掸子还能用！','낡은 먼지떨이도 쓸 만해!');
 {const s=at(5);s.objs=s.objs.filter(o=>o.id!=='haw');s.rules=s.rules.filter(q=>q.t!=='haw');s.objs.push({id:'stall',hot:1,x:.93,y:.46,r:.08});s.tools.push({id:'hawT',img:'hawthorn',have:'out',miss:['这个是给墩墩的','이건 둥둥 줄 거야']});s.rules.push(tap('stall','!out',['fly','hawthorn',[.93,.46],'tray',.4,.05,.05],set('out'),['tone','good'],say('买到糖葫芦啦！','탕후루를 샀어!',[.5,.86],1.5)));s.rules.push(use('hawT','dun','!haw',set('haw'),say('甜甜的！','달콤해!','dun')));}
+ST.forEach((s,i)=>side(s,SIDE[i]));
 for(const s of ST){s.diff=diff(s.id);s.time=time(s.id);}
 module.exports=ST;

diff --git a/dev/scene/photo/qa.js b/dev/scene/photo/qa.js
@@ -6,13 +6,14 @@ for(const s of ST){const ids=new Set(s.objs.map(o=>o.id).concat(['lili']));const
  if(s.probs.length!==5)err(s,'probs');if(!has(s.bg))err(s,'bg '+s.bg);if(s.hid&&!has(s.hid))err(s,'hid '+s.hid);
  for(const o of s.objs){if(o.img&&!has(o.img))err(s,'img '+o.img);for(const a of o.alt||[])if(a.img&&!has(a.img))err(s,'alt '+a.img);}
  const fl=new Set(s.probs.map(p=>p.id));const flags=[...fl];const others=new Set();
- for(const r of s.rules){if(!ids.has(r.t)&&r.t!=='lili')err(s,'rule target '+r.t);if(r.tool&&!tools.has(r.tool))err(s,'rule tool '+r.tool);for(const d of r.do){if(d[0]==='set'&&!fl.has(d[1]))others.add(d[1]);if(d[0]==='fly'&&!has(d[1]))err(s,'fly '+d[1]);if((d[0]==='wig'||d[0]==='go'||d[0]==='tmp'||d[0]==='off')&&!ids.has(d[1]))err(s,'op target '+d[1]);}if(!r.do.some(d=>d[0]==='say'||d[0]==='set'||d[0]==='found'||d[0]==='wig'||d[0]==='pv'||d[0]==='tone'))err(s,'empty rule');}
- const allFlags=[...flags,...others];const key=v=>allFlags.map(f=>v[f]?1:0).join('');const seen=new Map();const q=[{}];seen.set(key({}),null);const masks=new Set();let parentPath=new Map([[key({}),[]]]);
+ for(const r of s.rules){if(!ids.has(r.t)&&r.t!=='lili')err(s,'rule target '+r.t);if(r.tool&&!tools.has(r.tool))err(s,'rule tool '+r.tool);for(const d of r.do){if(d[0]==='set'&&!fl.has(d[1])&&!r.x)others.add(d[1]);if(d[0]==='fly'&&!has(d[1]))err(s,'fly '+d[1]);if((d[0]==='wig'||d[0]==='go'||d[0]==='tmp'||d[0]==='off')&&!ids.has(d[1]))err(s,'op target '+d[1]);}if(!r.do.some(d=>d[0]==='say'||d[0]==='set'||d[0]==='found'||d[0]==='wig'||d[0]==='pv'||d[0]==='tone'))err(s,'empty rule');}
+ const allFlags=[...flags,...others];const key=v=>allFlags.map(f=>v[f]?1:0).join('');const seen=new Map();const q=[{}];seen.set(key({}),null);const masks=new Set();let parentPath=new Map([[key({}),[]]]);const vals=new Map([[key({}),{}]]);
  while(q.length){const v=q.shift();const m=s.probs.map(p=>v[p.id]?'0':'1').join('');masks.add(m);const pk=parentPath.get(key(v));
-  s.rules.forEach((r,ri)=>{if(r.t==='lili'&&0)return;const tool=r.tool&&s.tools.find(t=>t.id===r.tool);if(tool&&!cond(tool.have,v))return;if(r.t&&s.objs.find(o=>o.id===r.t)){const o=s.objs.find(o=>o.id===r.t);if(o.show&&!cond(o.show,v))return;}if(!cond(r.if,v))return;const n=Object.assign({},v);for(const d of r.do)if(d[0]==='set')n[d[1]]=true;const k=key(n);if(!parentPath.has(k)){parentPath.set(k,pk.concat(ri));q.push(n);}});}
+  s.rules.forEach((r,ri)=>{if(r.x)return;const tool=r.tool&&s.tools.find(t=>t.id===r.tool);if(tool&&!cond(tool.have,v))return;if(r.t&&s.objs.find(o=>o.id===r.t)){const o=s.objs.find(o=>o.id===r.t);if(o.show&&!cond(o.show,v))return;}if(!cond(r.if,v))return;const n=Object.assign({},v);for(const d of r.do)if(d[0]==='set')n[d[1]]=true;const k=key(n);if(!parentPath.has(k)){parentPath.set(k,pk.concat(ri));vals.set(k,n);q.push(n);}});}
  if(masks.size!==32)err(s,'reachable '+masks.size+'/32 missing '+Array.from({length:32},(_,i)=>i.toString(2).padStart(5,'0')).filter(m=>!masks.has(m)).join(','));
  const titles=new Set();for(let i=0;i<32;i++){const m=i.toString(2).padStart(5,'0');const u=s.probs.filter((p,k)=>m[k]==='1');titles.add(s.titles[m]?s.titles[m][0]:u.map(p=>p.f[0]).join('，')+'！');}if(titles.size!==32)err(s,'titles '+titles.size);if(Object.keys(s.titles).length!==8)err(s,'special '+Object.keys(s.titles).length);
  if(!s.rules.some(r=>r.do.some(d=>d[0]==='found')))err(s,'no hidden');if(!others.has('tw')&&s.id!==4&&s.id!==2&&s.id!==5&&s.id!==16)console.log('  · stage',s.id,'no tw twist flag');
  s._win=parentPath.get(key(Object.assign({},...s.probs.map(p=>({[p.id]:true})))));
- let best=null;for(const [k,p] of parentPath){const on=k.split('');if(s.probs.every((_,i)=>on[i]==='1')&&(!best||p.length<best.length))best=p;}s._path=best;}
+ let best=null;for(const [k,p] of parentPath){const on=k.split('');if(s.probs.every((_,i)=>on[i]==='1')&&(!best||p.length<best.length))best=p;}let bk=null;for(const [k,p] of parentPath)if(p===best)bk=k;const v=Object.assign({},vals.get(bk)),path=best.slice();let moved=true;while(moved){moved=false;s.rules.forEach((r,ri)=>{if(!r.x||!cond(r.if,v))return;const tool=r.tool&&s.tools.find(t=>t.id===r.tool);if(tool&&!cond(tool.have,v))return;const o=s.objs.find(o=>o.id===r.t);if(o&&o.show&&!cond(o.show,v))return;const sets=r.do.filter(d=>d[0]==='set'&&!v[d[1]]);if(!sets.length)return;for(const d of sets)v[d[1]]=true;path.push(ri);moved=true;});}
+ if(s.extra.some(e=>!v[e.id]))err(s,'extra unsolved');const n=s.probs.length+s.extra.length,w=s.id>=13?10:s.id>=6?9:8;if(n!==w)err(s,'count '+n);if(s.tools.length>4)err(s,'tools '+s.tools.length);s._path=path;}
 fs.writeFileSync(path.join(__dirname,'site/paths.json'),JSON.stringify(ST.map(s=>s._path)));console.log(bad?bad+' problems':'static OK: 20 stages, 32/32 each');

diff --git a/dev/scene/photo/play.js b/dev/scene/photo/play.js
@@ -1,8 +1,8 @@
 /* Real-input playthrough of all stages on iPhone 13: solves every problem, finds the hidden item, takes the photo. */
 const {chromium,devices}=require('playwright');const http=require('http'),fs=require('fs'),path=require('path');
 const root=path.join(__dirname,'site'),shot=process.argv[2]||'/tmp';const paths=JSON.parse(fs.readFileSync(root+'/paths.json'));
-const srv=http.createServer((q,r)=>{const p=q.url.split('?')[0];if(p==='/'){r.setHeader('content-type','text/html;charset=utf-8');r.end('<!doctype html><html><head><meta charset=utf-8><meta name=viewport content="width=device-width,initial-scale=1,viewport-fit=cover"><style>html{color-scheme:light}body{margin:0}[hidden]{display:none!important}</style></head><body>'+fs.readFileSync(root+'/photo.html','utf8')+'</body></html>');return;}try{r.end(fs.readFileSync(path.join(root,p)));}catch(e){r.statusCode=404;r.end();}}).listen(8156);
-(async()=>{const b=await chromium.launch();const c=await b.newContext({...devices['iPhone 13'],deviceScaleFactor:1});const pg=await c.newPage();const errs=[];pg.on('pageerror',e=>errs.push(e.message));await pg.goto('http://localhost:8156/');await pg.waitForTimeout(1500);
+const srv=http.createServer((q,r)=>{const p=q.url.split('?')[0];if(p==='/'){r.setHeader('content-type','text/html;charset=utf-8');r.end('<!doctype html><html><head><meta charset=utf-8><meta name=viewport content="width=device-width,initial-scale=1,viewport-fit=cover"><style>html{color-scheme:light}body{margin:0}[hidden]{display:none!important}</style></head><body>'+fs.readFileSync(root+'/photo.html','utf8')+'</body></html>');return;}try{r.end(fs.readFileSync(path.join(root,p)));}catch(e){r.statusCode=404;r.end();}}).listen(8157);
+(async()=>{const b=await chromium.launch();const c=await b.newContext({...devices['iPhone 13'],deviceScaleFactor:1});const pg=await c.newPage();const errs=[];pg.on('pageerror',e=>errs.push(e.message));await pg.goto('http://localhost:8157/');await pg.waitForTimeout(1500);
 const only=process.argv[3]?process.argv[3].split(',').map(Number):null;let fails=0;const imgs={};
 for(let si=0;si<20;si++){if(only&&!only.includes(si+1))continue;await pg.evaluate(i=>__t.start(i),si);await pg.waitForTimeout(350);
  imgs['s'+(si+1)]=await pg.evaluate(()=>__t.pv());const box=await (await pg.$('#cv')).boundingBox();const SS=await pg.evaluate(()=>__t.SS());
@@ -19,6 +19,6 @@ for(let si=0;si<20;si++){if(only&&!only.includes(si+1))continue;await pg.evaluat
   await pg.waitForTimeout(90);await idle();}
  for(const ri of paths[si]){const r=await pg.evaluate(i=>{const r=__t.L.rules[i];return{on:r.on,t:r.t,tool:r.tool,dir:r.dir,to:r.to,goal:r.goal};},ri);await act(r);}
  const hr=await pg.evaluate(()=>{const r=__t.L.rules.find(r=>r.do.some(d=>d[0]==='found')&&__t.cond(r.if,__t.S.v)&&(()=>{const o=__t.L.objs.find(q=>q.id===r.t);return !o.show||__t.cond(o.show,__t.S.v);})());return r?{on:r.on,t:r.t}:null;});if(hr)await act(hr);
- const st=await pg.evaluate(()=>({m:__t.L.probs.map(p=>__t.S.v[p.id]?'0':'1').join(''),f:__t.S.found}));imgs['e'+(si+1)]=await pg.evaluate(()=>__t.pv());
- await pg.click('#shoot');await pg.waitForTimeout(1000);const l=await pg.evaluate(()=>__last);const ok=l.mask==='00000'&&st.f;if(!ok)fails++;console.log(si+1,ok?'OK':'FAIL',st.m,'found',st.f,l.title[0]);await pg.evaluate(()=>{document.getElementById('result').hidden=true;__t.goHome();});await pg.waitForTimeout(50);}
+ const st=await pg.evaluate(()=>({m:__t.L.probs.map(p=>__t.S.v[p.id]?'0':'1').join(''),f:__t.S.found,left:__t.L.extra.filter(p=>!__t.S.v[p.id]).length}));imgs['e'+(si+1)]=await pg.evaluate(()=>__t.pv());
+ await pg.click('#shoot');await pg.waitForTimeout(1000);const l=await pg.evaluate(()=>__last);const ok=l.mask==='00000'&&st.f&&st.left===0;if(!ok)fails++;console.log(si+1,ok?'OK':'FAIL',st.m,'left',st.left,'found',st.f,l.title[0]);await pg.evaluate(()=>{document.getElementById('result').hidden=true;__t.goHome();});await pg.waitForTimeout(50);}
 fs.writeFileSync(shot+'/imgs.json',JSON.stringify(imgs));console.log('fails',fails,'errors',errs.slice(0,5));await b.close();srv.close();})();

diff --git a/dev/scene/photo/README.md b/dev/scene/photo/README.md
@@ -28,3 +28,6 @@ node play.js <저장폴더>      # iPhone 13 실제 터치로 20단계 완주
 ## 광고
 `src/engine.html` 의 `adAdapter` 만 위챗(`wx`)·더우인(`tt`) 광고로 바꾸면 된다. 지금은 시험용 가짜 광고다.
 보상형 우선, 전면 광고는 `INTERSTITIAL_ON=false`. 광고 없이도 사진 저장과 다음 단계는 항상 가능. 연령 확인 전에는 `adAdapter.allowed()` 를 false 로 둔다.
+
+## 문제 수
+단계마다 사진 제목을 정하는 기본 문제 5개(`probs`)에 추가 미션(`extra`, `SIDE` 표)을 더해 8~10개다. 황금 사진은 전부 해결해야 하고, 사진첩은 기본 문제 기준 32종을 유지한다.
